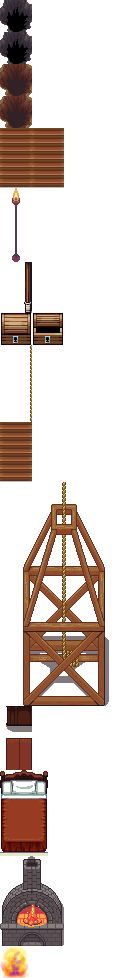
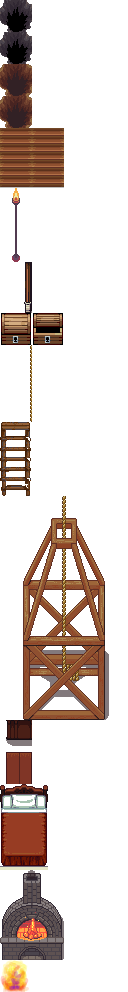
A generated ladder out of caves; local SDXL recorded as an art tool
The author's neyropix project (SDXL Base 1.0 + Pixel Art XL + the fixed
VAE, run locally) was tried on what LPC lacks: a ladder up out of a cave.
Its output, cleaned (white between the rungs, a shadow, grey specks) and
recoloured by luminance onto the eight wood colours of LPC Wooden Stairs,
replaces the stairs as base:cave_climb. The source, its report and the
provenance (prompt, seed, models and their licences, edits) are kept in
tools/art/generated/cave_ladder; the models are credited. How and when
to use the tool: docs/art/AI_ASSETS.md (only for what LPC lacks, never
without the palette recoloured onto an LPC ramp).

diff --git a/tools/art/import_lpc_env.py b/tools/art/import_lpc_env.py
@@ -449,7 +449,8 @@ PROPS = {
     "base:wood_column": ("lpc-windows-doors/lpc-windows-doors-v2/windows-doors.png", (960, 0, 32, 64), {}),
     "base:chest": ("chest2.png", (0, 0, 32, 32), {"open": (32, 0, 32, 32)}),
     "base:mine_ladder": ("lpc-mine/lpc-mine/mine.png", (0, 288, 32, 96), {}),
-    "base:cave_climb": ("wooden_stairs.png", (0, 320, 32, 64), {}),  # a way up: stairs, read as such
+    # A ladder out of a cave: generated (docs/art/AI_ASSETS.md), LPC wood colours.
+    "base:cave_climb": (str(ROOT / "tools" / "art" / "generated" / "cave_ladder" / "cave_ladder.png"), (0, 0, 32, 74), {}),
     "base:headframe": ("lpc-mine/lpc-mine/mine.png", (0, 0, 128, 224), {}),
     "base:workbench": ("house_inside_1.png", (96, 32, 32, 64), {}),
     "base:bed": ("house_inside_1.png", (72, 172, 48, 88), {}),
@@ -714,6 +715,9 @@ PACK_CREDITS = [
     ("[LPC] Farming tilesets (пашня, посевы, урожай, семена)", "lpc-farm/submission_daneeklu/readme.txt"),
 ]
 FILE_CREDITS = [
+    ("Лестница из пещеры — сгенерирована (tools/art/generated/cave_ladder)",
+     "модели: Stability AI SDXL Base 1.0, nerijs Pixel Art XL, madebyollin SDXL VAE fp16-fix; очистка и палитра [LPC] Wooden Stairs",
+     "CreativeML OpenRAIL++-M / CreativeML OpenRAIL-M (модели)", "https://huggingface.co/nerijs/pixel-art-xl"),
     ("[LPC] Thatched-roof Cottage (крыша)", "bluecarrot16", "CC-BY-SA 3.0 / GPL 3.0",
      "https://opengameart.org/content/lpc-thatched-roof-cottage"),
     ("[LPC] Wooden Stairs (лестница)", "Nyom", "CC-BY-SA 4.0", "https://opengameart.org/content/lpc-wooden-stairs"),

diff --git a/docs/art/AI_ASSETS.md b/docs/art/AI_ASSETS.md
@@ -1,0 +1,43 @@
+# Сгенерированные ассеты: локальный SDXL (neyropix)
+
+Проверено 20.10.2026 на лестнице из пещеры (`tools/art/generated/cave_ladder`).
+
+## Когда
+
+Только для того, чего нет в наборах LPC (сначала поиск на OpenGameArt, см.
+[ART_STANDARD](ART_STANDARD.md), правило 6): одиночные вещи, предметы обстановки,
+иконки. Не для людей и зверей: согласованные направления и анимации модель не
+даёт, а LPC их даёт.
+
+## Как
+
+Инструмент — соседний проект `/home/mirivlad/git/neyropix` (SDXL Base 1.0 + LoRA
+Pixel Art XL + SDXL VAE fp16-fix через stable-diffusion.cpp на Vulkan; инструкция —
+его `CLAUDE.md`). Один запуск — около 4 минут, по одному (блокировка GPU), каждый
+в новую папку:
+
+```bash
+cd /home/mirivlad/git/neyropix
+.venv/bin/python scripts/sdxl.py --prompt "pixel art, a single <вещь>, top-down RPG game asset, 3/4 view, <материал и цвета>, isolated on a plain white background, simple flat colors" --seed 11401 --steps 20 --key-background --output "data/results/sdxl/nhn-<имя>-$(date +%Y%m%d-%H%M%S)"
+```
+
+Выход `keyed-128/transparent.png` — 128×128 (nearest из 1024): плотность близка к
+LPC (тексель — пиксель экрана 960×540), вещь в клетку — около 30 px шириной.
+
+## Что сделать с результатом
+
+1. Посмотреть 1:1 и увеличенным: лишние пиксели, тени, «заплатки».
+2. Убрать фон внутри замкнутых мест (между перекладинами и т.п.) — выделение по
+   краю его не берёт; убрать тени и случайные точки.
+3. **Переложить палитру** на рампу подходящего материала LPC (по яркости): у выхода
+   модели сотни цветов, это не пиксель-арт без перекладки.
+4. Обрезать по нарисованному; ширина — не больше клетки (32), если вещь в клетку.
+5. Положить в `tools/art/generated/<имя>/`: `source.png` (выход), `report.json`,
+   итоговый PNG и `PROVENANCE.md` (запрос, seed, модели и их лицензии, что правлено).
+   Строка в импортёре; запись в титры (`FILE_CREDITS`).
+
+## Лицензии
+
+Модели: SDXL Base 1.0 — CreativeML OpenRAIL++-M, Pixel Art XL — CreativeML
+OpenRAIL-M (ограничения на использование, выход не запрещён), VAE — MIT. В титрах
+указываются модели и источник палитры.

diff --git a/docs/art/ART_STANDARD.md b/docs/art/ART_STANDARD.md
@@ -44,6 +44,8 @@
 5. **Звери и люди** — 4 направления (n, w, s, e), диагональ показывается боком;
    анимации — кадры, а не движение картинки.
 6. Новая вещь — сначала поиск в наборах LPC на OpenGameArt, затем строка в таблице
-   импортёра, затем запись авторов. Своя графика — только в манере и плотности LPC.
+   импортёра, затем запись авторов. Своя графика — только в манере и плотности LPC:
+   в том числе сгенерированная локальной SDXL с переложенной на рампу LPC палитрой
+   ([AI_ASSETS](AI_ASSETS.md)).
 
 История: прежние стандарты, палитра, брифы и HD-сравнения — в [archive](archive/).

diff --git a/CREDITS-art.md b/CREDITS-art.md
@@ -1010,6 +1010,12 @@ those base assets can be found at:
 http://lpc.opengameart.org/static/lpc-style-guide/assets.html
 ```
 
+## Лестница из пещеры — сгенерирована (tools/art/generated/cave_ladder)
+
+- Авторы: модели: Stability AI SDXL Base 1.0, nerijs Pixel Art XL, madebyollin SDXL VAE fp16-fix; очистка и палитра [LPC] Wooden Stairs
+- Лицензии: CreativeML OpenRAIL++-M / CreativeML OpenRAIL-M (модели)
+- https://huggingface.co/nerijs/pixel-art-xl
+
 ## [LPC] Thatched-roof Cottage (крыша)
 
 - Авторы: bluecarrot16
